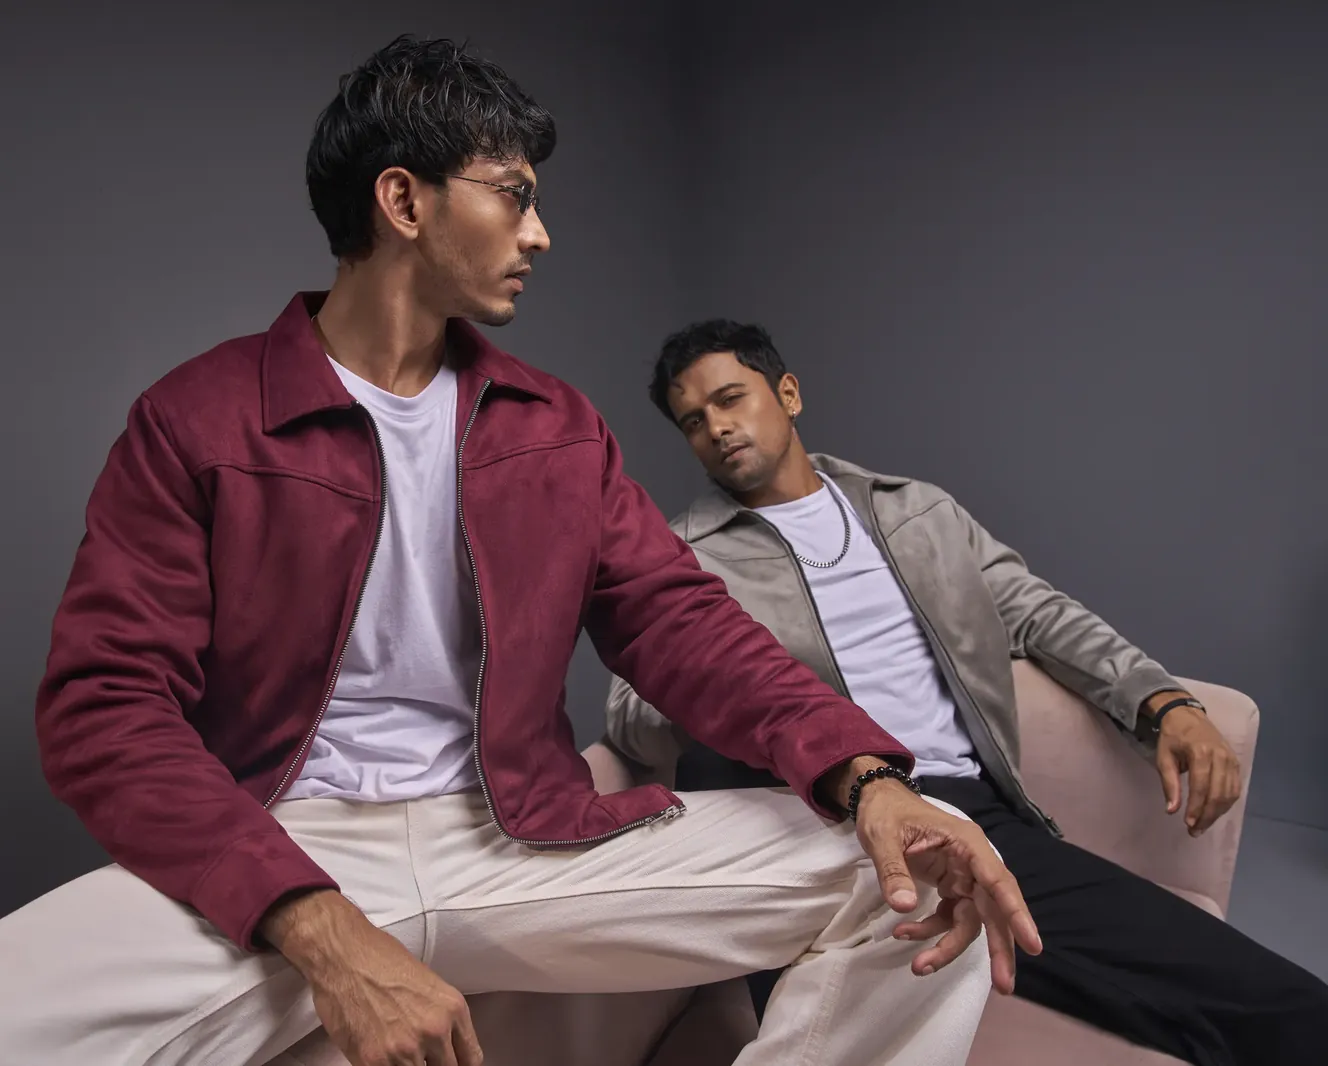
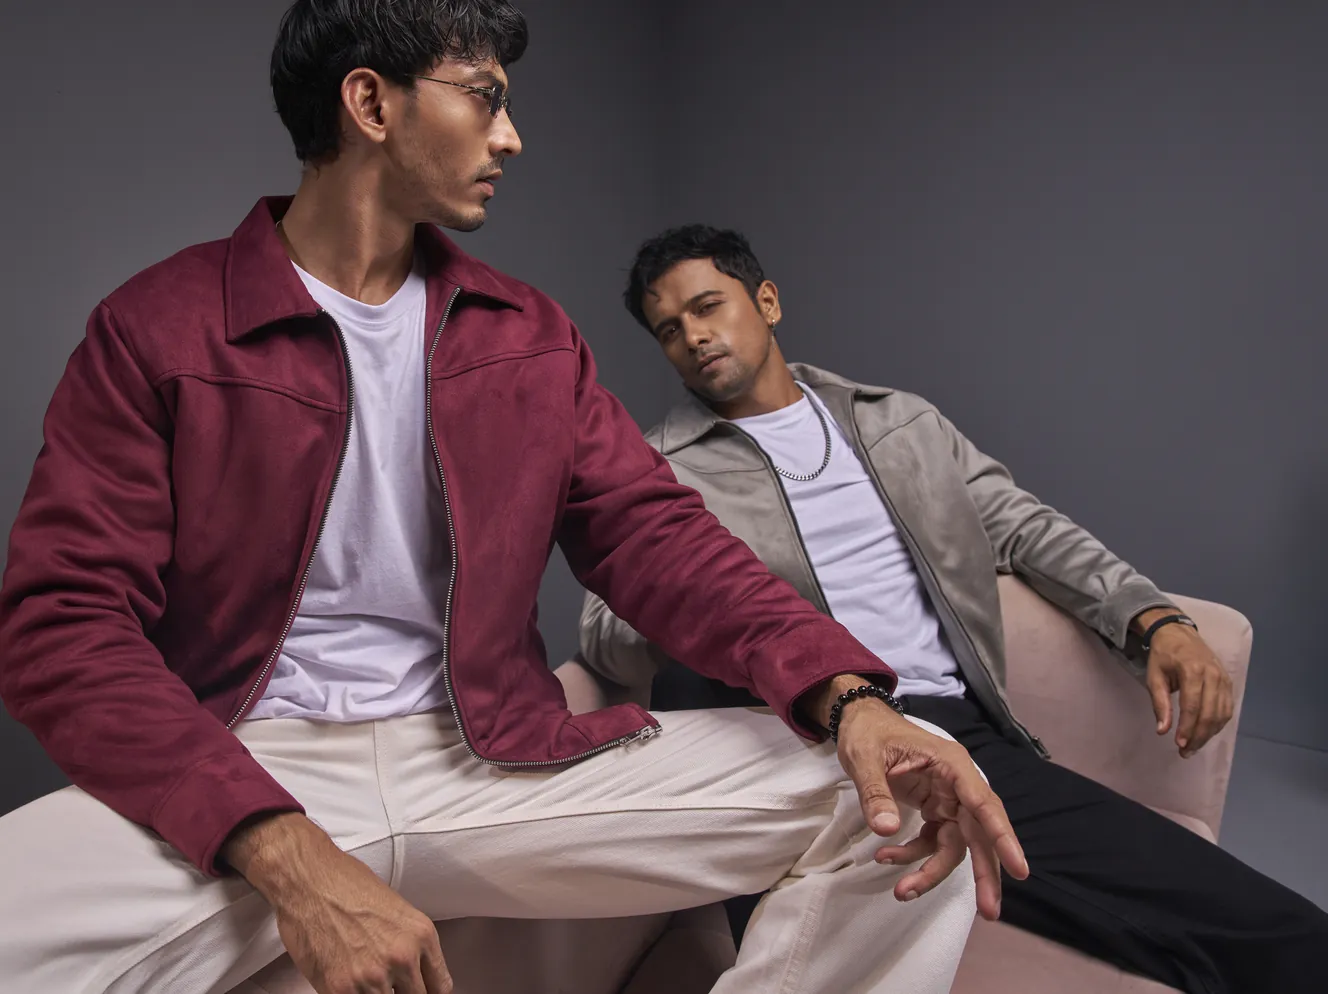
Hero photo cropped in from the top-left corner
Claude-Session: https://claude.ai/code/session_016Ko5fiKDSgL2mqczg9HFHj

diff --git a/index.html b/index.html
@@ -22,7 +22,7 @@
 </style>
 <link rel="preload" as="image" href="assets/img/home/r-hero-sofa-m.webp" media="(max-width: 960px)" fetchpriority="high">
 <link rel="preload" as="image" href="assets/img/home/r-hero-sofa.webp" media="(min-width: 961px)" fetchpriority="high">
-<link rel="stylesheet" href="assets/css/style.css?v=1356">
+<link rel="stylesheet" href="assets/css/style.css?v=1357">
 <script>document.documentElement.classList.add("js");try{if(!matchMedia("(prefers-reduced-motion: reduce)").matches&&!/[?&](preview|edit)\b/.test(location.search))document.documentElement.classList.add("js-intro")}catch(e){}</script>
 </head>
 <body>
@@ -37,7 +37,7 @@
 <!-- 1. HERO: one wide photo, copy on the right -->
 <header class="hero hero--photo" id="top">
   <div class="hero__panel">
-    <picture><source media="(max-width: 960px)" srcset="assets/img/home/r-hero-sofa-m.webp" width="1328" height="1066"><img class="hero__photo" src="assets/img/home/r-hero-sofa.webp" fetchpriority="high" decoding="async" alt="Two models in a burgundy and a grey suede jacket with white tees" width="2400" height="1600" data-ci="hero.image" data-calt="hero.imageAlt"></picture>
+    <picture><source media="(max-width: 960px)" srcset="assets/img/home/r-hero-sofa-m.webp" width="1328" height="994"><img class="hero__photo" src="assets/img/home/r-hero-sofa.webp" fetchpriority="high" decoding="async" alt="Two models in a burgundy and a grey suede jacket with white tees" width="2400" height="1600" data-ci="hero.image" data-calt="hero.imageAlt"></picture>
     <nav class="nav" aria-label="Main"><a class="nav__brand" href="#home" aria-label="Ravari home"><img src="assets/img/logo.webp" alt="Ravari" width="199" height="24"></a></nav>
 
     <div class="hero__copy">
@@ -271,7 +271,7 @@
 
 <div class="toast" id="toast" role="status" aria-live="polite"></div>
 
-<script src="assets/js/client.js?v=1356"></script>
-<script src="assets/js/store.js?v=1356"></script>
+<script src="assets/js/client.js?v=1357"></script>
+<script src="assets/js/store.js?v=1357"></script>
 </body>
 </html>

diff --git a/admin.html b/admin.html
@@ -18,7 +18,7 @@
 @font-face { font-family: 'Saira'; font-style: normal; font-weight: 300 700; font-display: swap; src: url(assets/fonts/saira-latin-ext.woff2) format('woff2'); unicode-range: U+0100-02BA, U+02BD-02C5, U+02C7-02CC, U+02CE-02D7, U+02DD-02FF, U+0304, U+0308, U+0329, U+1D00-1DBF, U+1E00-1E9F, U+1EF2-1EFF, U+2020, U+20A0-20AB, U+20AD-20C4, U+2113, U+2C60-2C7F, U+A720-A7FF; }
 @font-face { font-family: 'Saira'; font-style: normal; font-weight: 300 700; font-display: swap; src: url(assets/fonts/saira-latin.woff2) format('woff2'); unicode-range: U+0000-00FF, U+0131, U+0152-0153, U+02BB-02BC, U+02C6, U+02DA, U+02DC, U+0304, U+0308, U+0329, U+2000-206F, U+20AC, U+2122, U+2191, U+2193, U+2212, U+2215, U+FEFF, U+FFFD; }
 </style>
-<link rel="stylesheet" href="assets/admin/admin.css?v=1356">
+<link rel="stylesheet" href="assets/admin/admin.css?v=1357">
 </head>
 <body>
 
@@ -85,7 +85,7 @@
 </div>
 <div class="toast" id="toast" role="status" aria-live="polite"></div>
 
-<script src="assets/js/client.js?v=1356"></script>
-<script src="assets/admin/admin.js?v=1356"></script>
+<script src="assets/js/client.js?v=1357"></script>
+<script src="assets/admin/admin.js?v=1357"></script>
 </body>
 </html>
